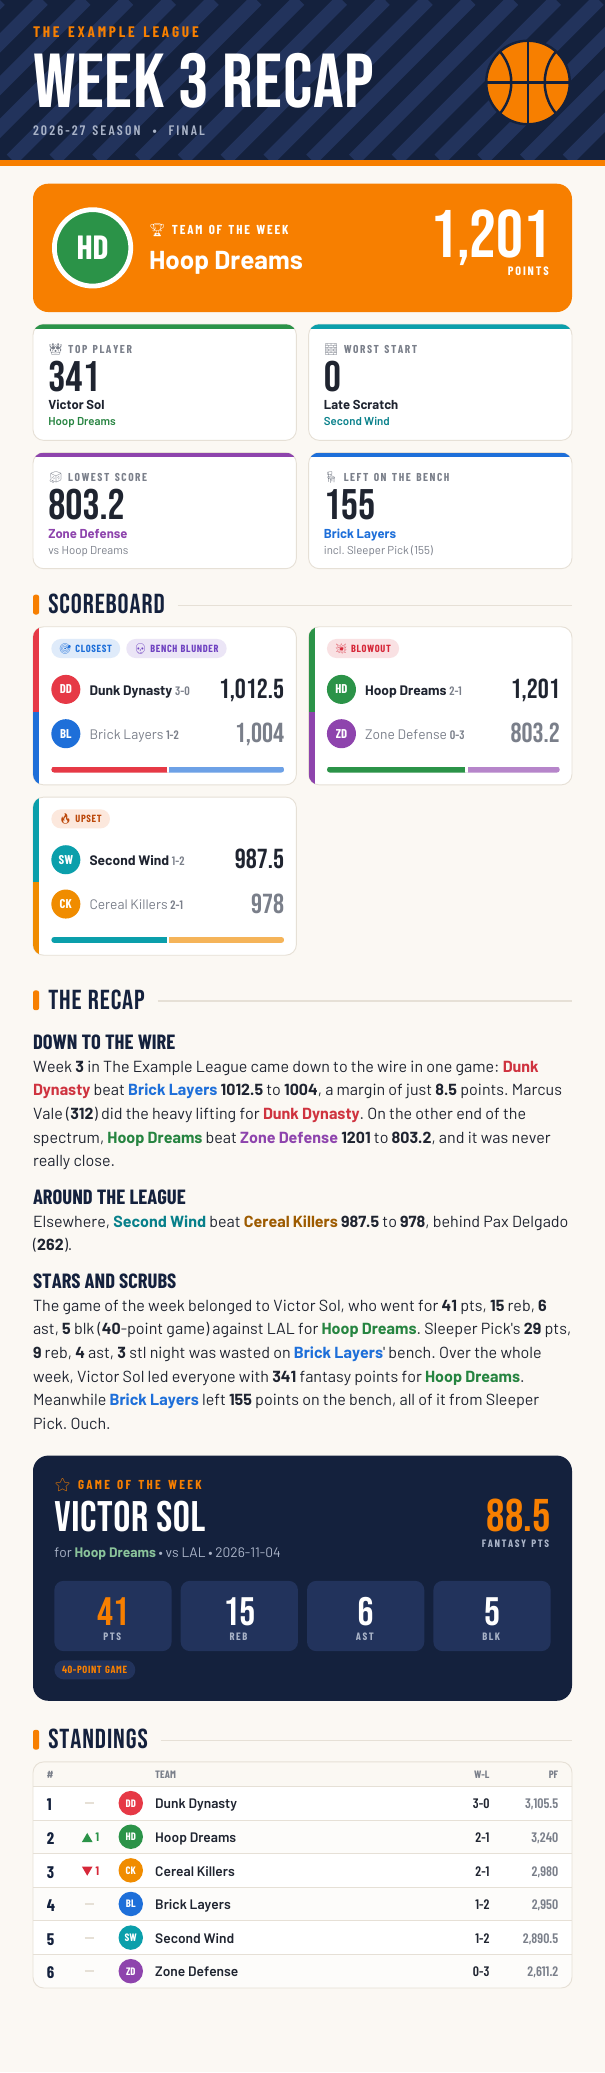
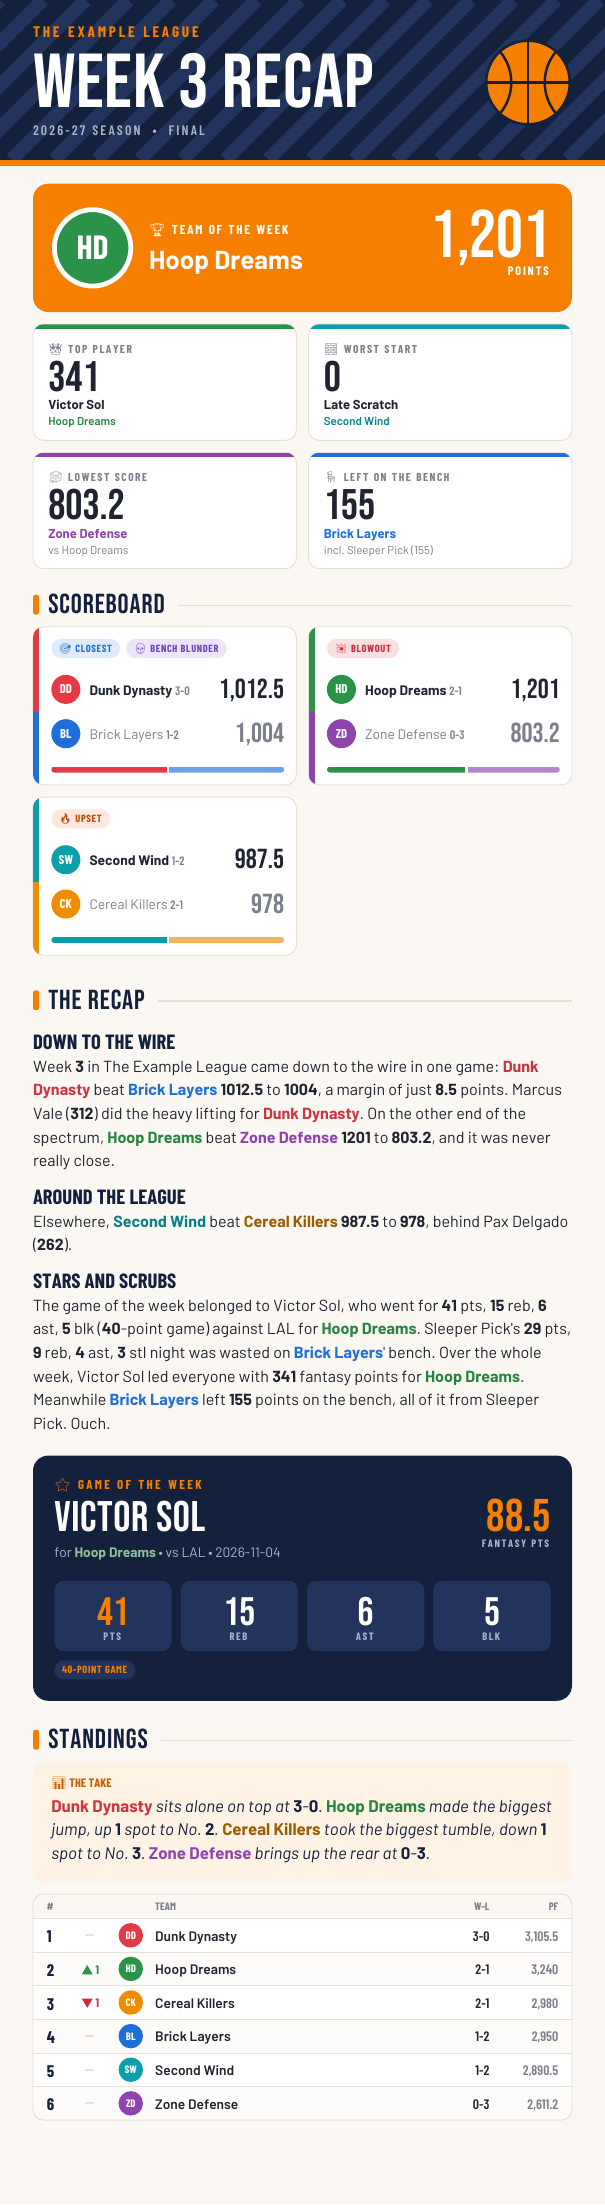
Refresh the sample recap and PDF for the standings take
The template story and PDF now end with a short take on the standings,
so regenerate docs/sample-recap.png and the README's sample text from
scripts/sample_recap.py, and mention the take in the README.

Changed region(s): [[0.0, 0.0, 1.0, 0.9571], [0.8628, 0.8644, 0.9223, 0.9571], [0.7736, 0.8644, 0.8331, 0.9571]]

diff --git a/README.md b/README.md
@@ -28,6 +28,8 @@ Elsewhere, Second Wind beat Cereal Killers 987.5 to 978, behind Pax Delgado (262
 
 Stars and scrubs
 The game of the week belonged to Victor Sol, who went for 41 pts, 15 reb, 6 ast, 5 blk (40-point game) against LAL for Hoop Dreams. Sleeper Pick's 29 pts, 9 reb, 4 ast, 3 stl night was wasted on Brick Layers' bench. Over the whole week, Victor Sol led everyone with 341 fantasy points for Hoop Dreams. Meanwhile Brick Layers left 155 points on the bench, all of it from Sleeper Pick. Ouch.
+
+Standings take: Dunk Dynasty sits alone on top at 3-0. Hoop Dreams made the biggest jump, up 1 spot to No. 2. Cereal Killers took the biggest tumble, down 1 spot to No. 3. Zone Defense brings up the rear at 0-3.
 ```
 
 ## Quickstart
@@ -94,7 +96,7 @@ python -m fantasy_recap --previous
 python -m fantasy_recap --week 3 --out recaps/week3.txt
 
 # Also render the one-page PDF (Team of the Week, stat tiles, scoreboard, recap,
-# Game of the Week and standings)
+# Game of the Week, and standings with a one-line take on the table)
 python -m fantasy_recap --previous --pdf recaps/week3.pdf
 
 # A fantasy football league (or set ESPN_SPORT=football in .env)
@@ -256,7 +258,7 @@ If you'd rather get the story or PDF itself on a schedule, point cron or a timer
 
 For each matchup, fantasy_recap pulls both teams, their records and scores (or category results), every starter's fantasy points, the points left on the bench, and whether the matchup is final. It also goes day by day through the week's box scores to find the best single-game performances by rostered players, noting whether each one was started or wasted on the bench and milestones like a triple-double or a 40-point game.
 
-From that it picks the league highlights (closest game, biggest blowout, high score, top player, most points left on the bench) and hands the whole summary to the story writer, with instructions to cover every matchup and stick to those facts.
+From that it picks the league highlights (closest game, biggest blowout, high score, top player, most points left on the bench) and hands the whole summary to the story writer, with instructions to cover every matchup and stick to those facts. The recap ends with a short take on the standings: who's on top, who climbed or fell the most, and who's stuck at the bottom.
 
 The code is small:
 
